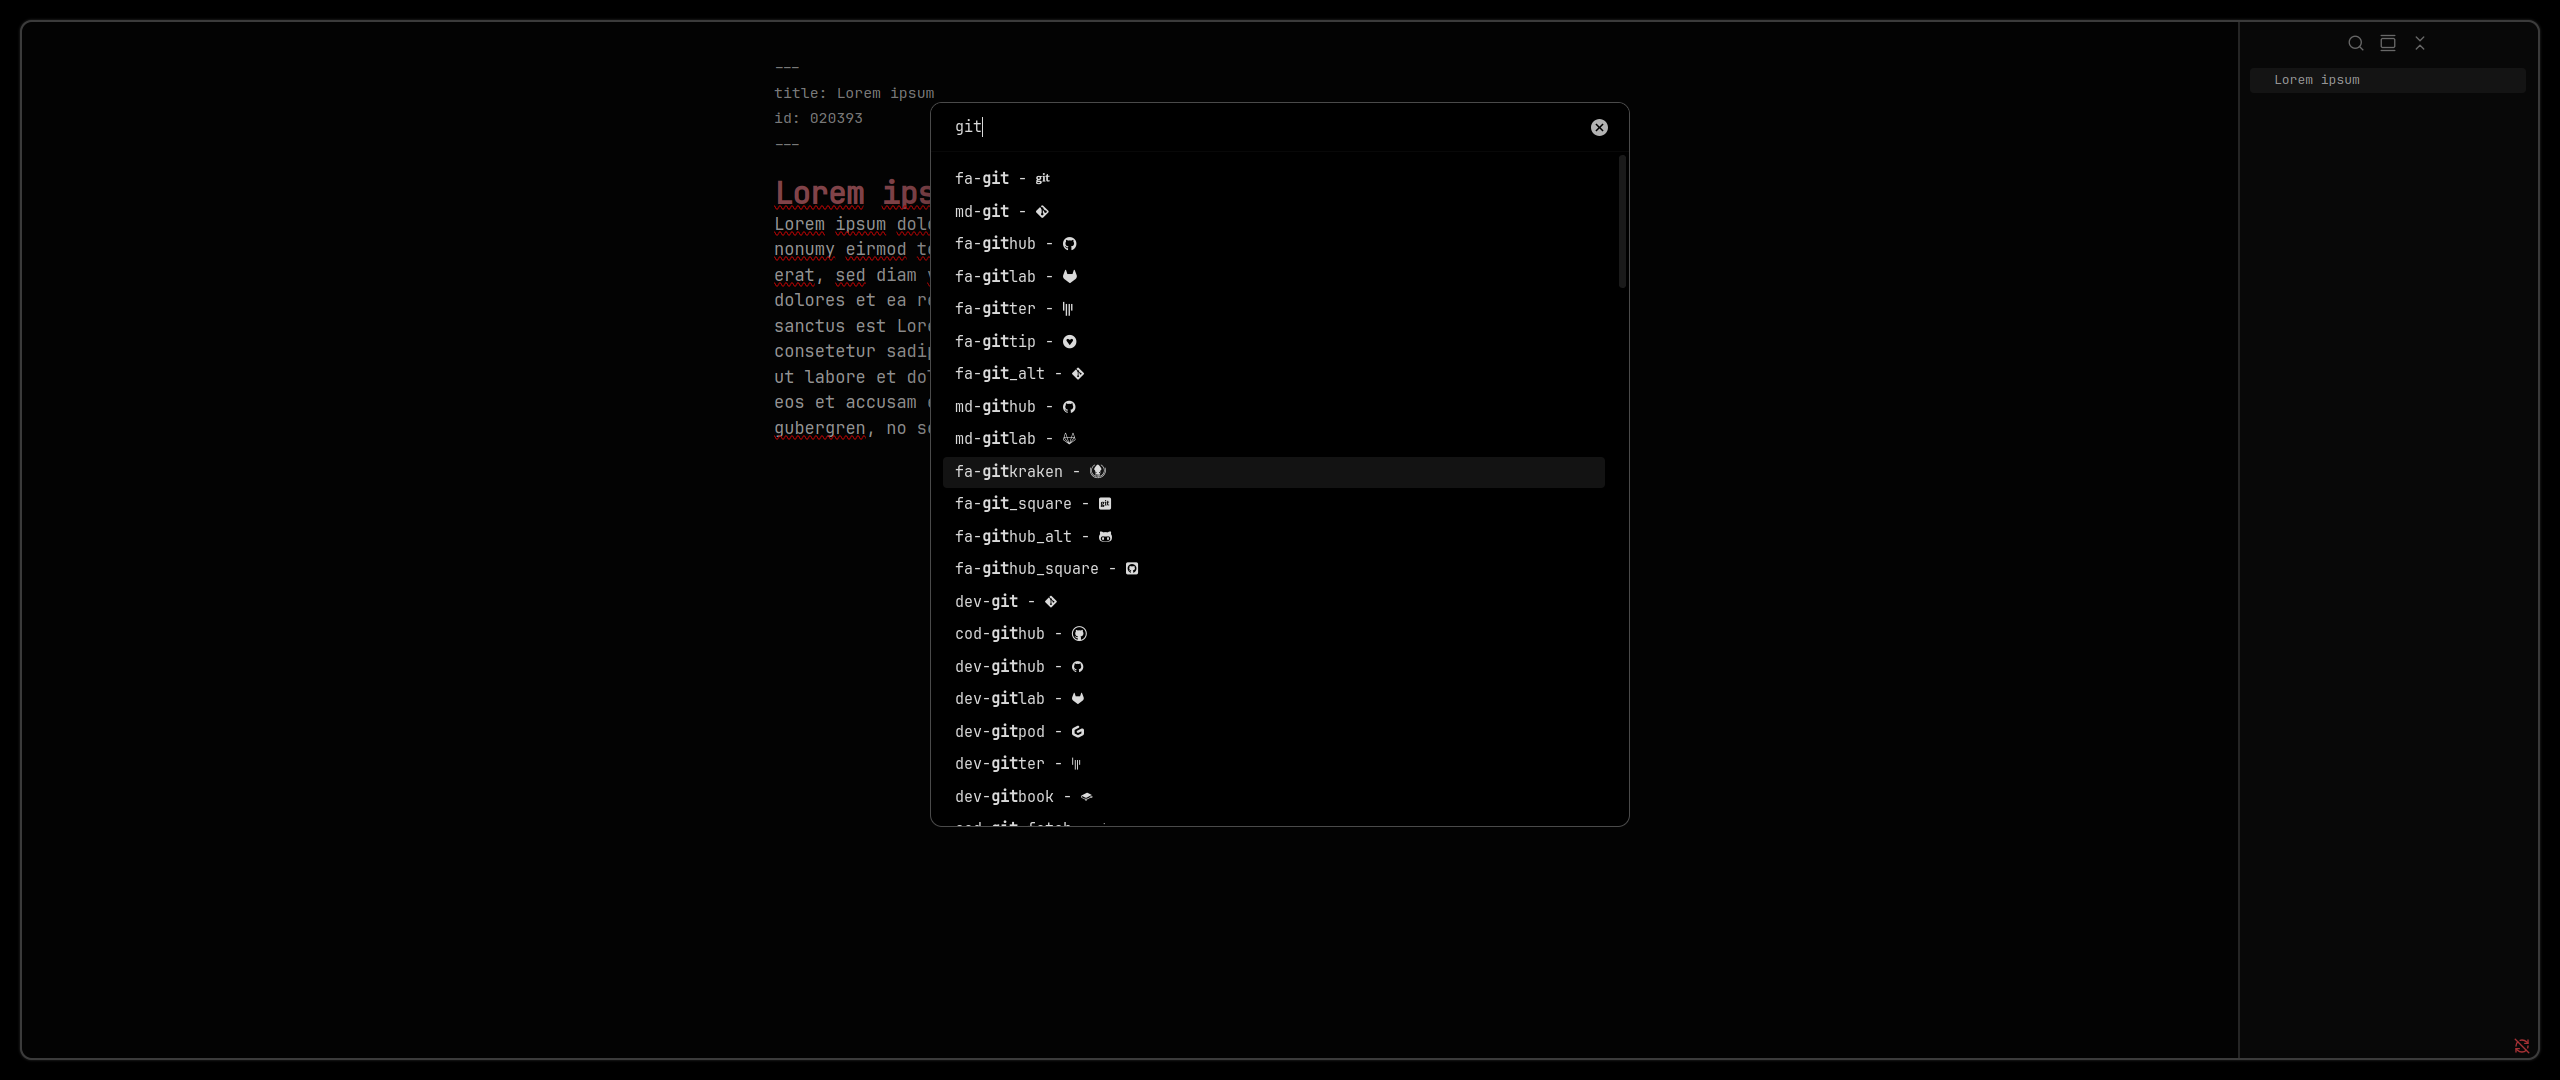
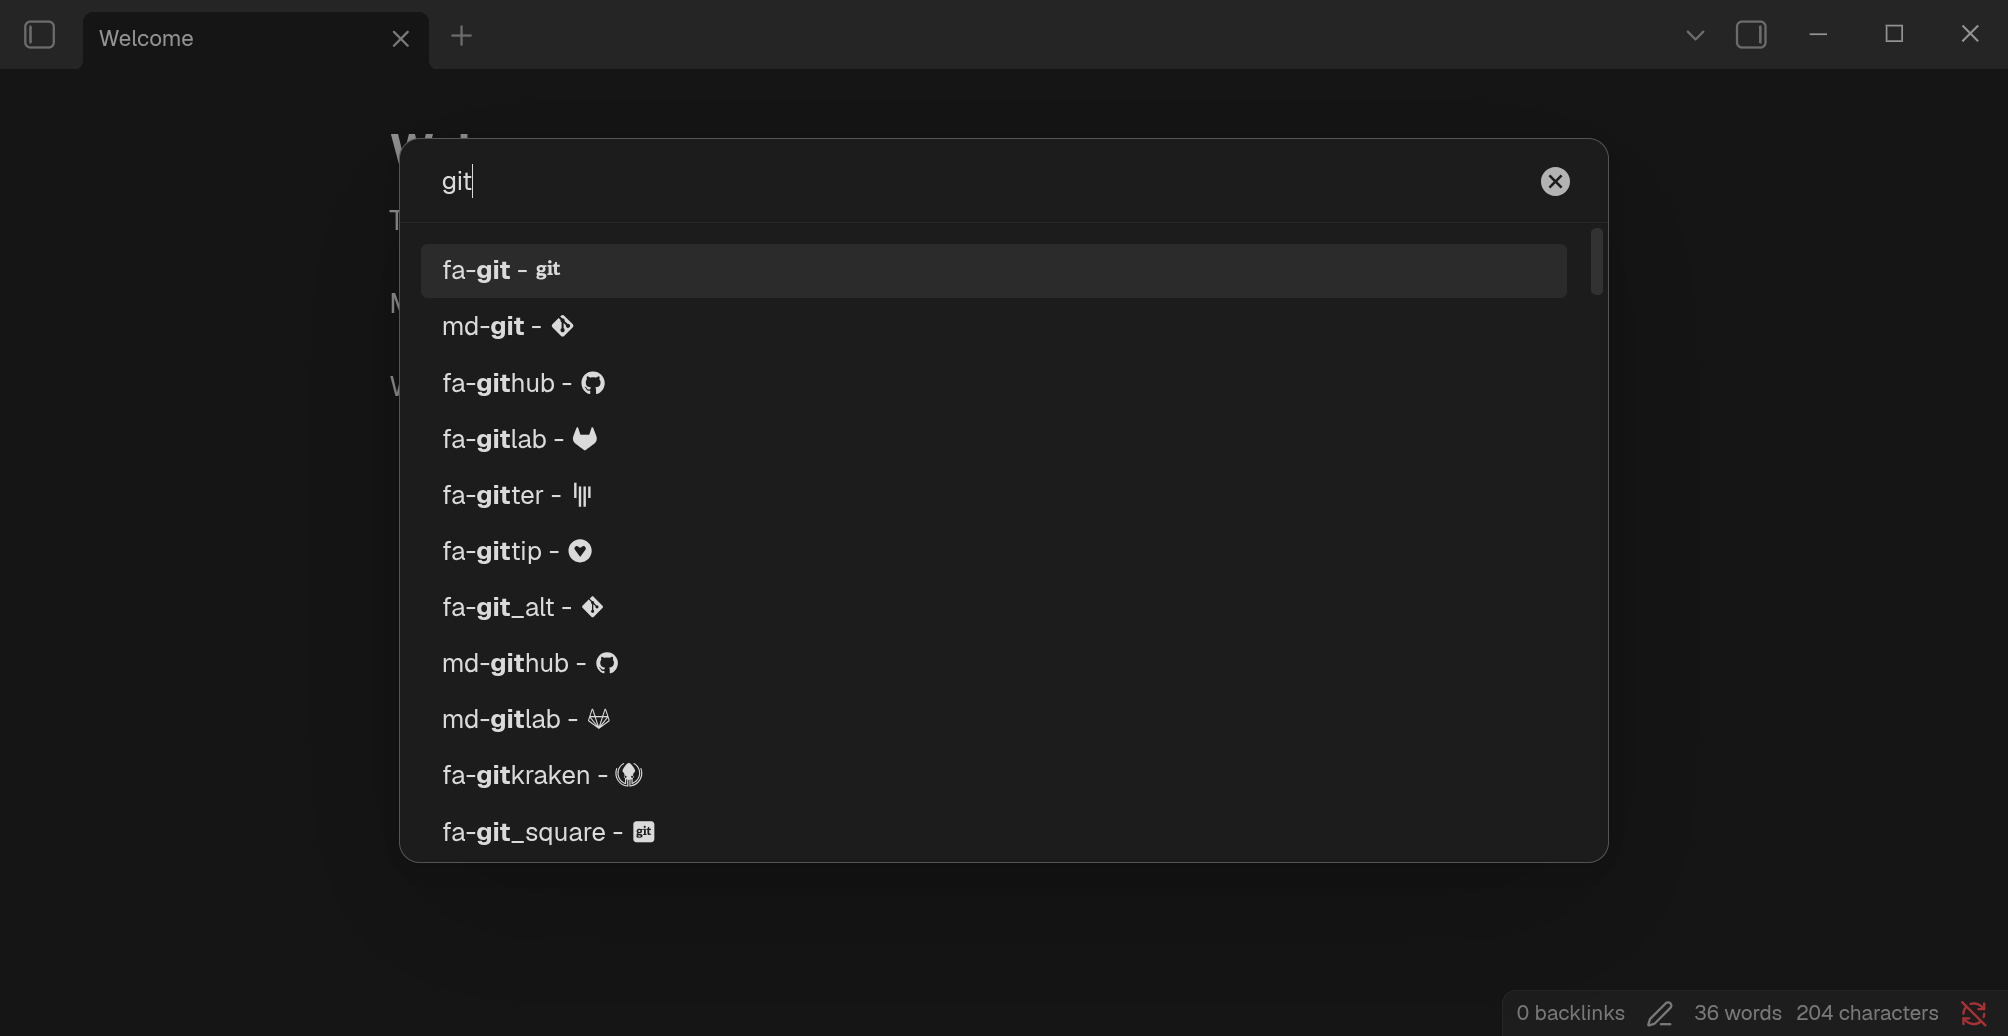
docs: improve README

diff --git a/README.md b/README.md
@@ -2,26 +2,11 @@
 
 [![Downloads](https://img.shields.io/github/downloads/xavwe/obsidian-nerdfont-icon-picker/total?style=flat-square)](https://github.com/xavwe/obsidian-nerdfont-icon-picker/releases)
 
-The **NerdFont Icon Picker** is a plugin for [Obsidian](https://obsidian.md/). It adds an easy-to-use [Nerd Font](https://github.com/ryanoasis/nerd-fonts) icon picker to Obsidian.
+The **NerdFont Icon Picker** is a plugin for [Obsidian](https://obsidian.md/). It adds an easy-to-use [Nerd Font](https://github.com/ryanoasis/nerd-fonts) icon picker to Obsidian. You can assign a hotkey for quick access.
 
 ![](.github/assets/screenshot.png)
 
-## Requirements
-- you need a Nerd Font as your text and interface font
-### Without plugin
-  - install [Nerd Font](https://github.com/ryanoasis/nerd-fonts)
-  - go to `Settings > Appeareance > Font`
-  - set text and interface font to [Nerd Font](https://github.com/ryanoasis/nerd-fonts)
-### With plugin
-- I recommend to use the [Custom Font Loader](https://github.com/pourmand1376/obsidian-custom-font) for mobile support
-## Installation
-### Plugin Store (recommended)
-- [search for Nerdfont Icon Picker](https://obsidian.md/plugins?search=NerdFont%20Icon%20Picker) 
-### Using BRAT plugin
-- use [BRAT](https://github.com/TfTHacker/obsidian42-brat) plugin
-### Manual
-- download source code from [latest release](https://github.com/xavwe/obsidian-nerdfont-icon-picker/releases/latest)
-- unpack it into `path/to/vault/.obsidian/plugins`
-## Getting started
-- just use command palette or assign hotkey
-- have fun ;-)
+
+## Getting Started
+1. Install from Obsidian Plugin Store: [NerdFont Icon Picker](https://community.obsidian.md/plugins/nerdfont-icon-picker)
+2. Change `Settings > Appearance > Font > Interface Font` and `Settings > Appearance > Font > Text Font` to a NerdFont. Make sure it is installed on you system. For mobile use [Custom Font Loader](https://github.com/pourmand1376/obsidian-custom-font).
